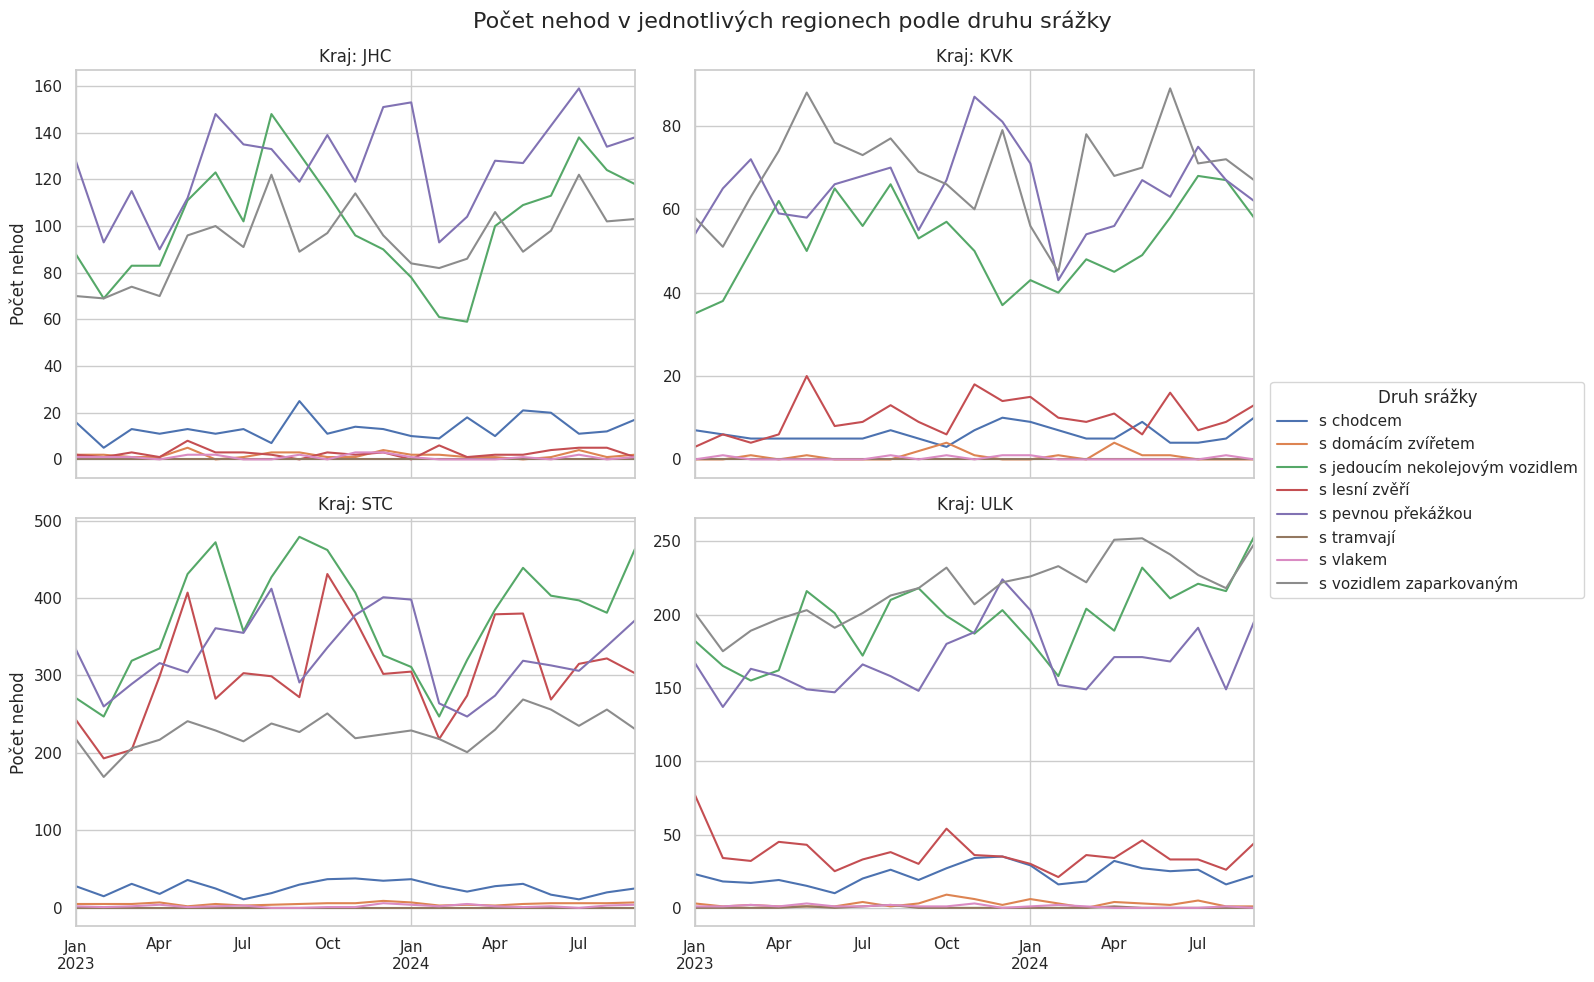
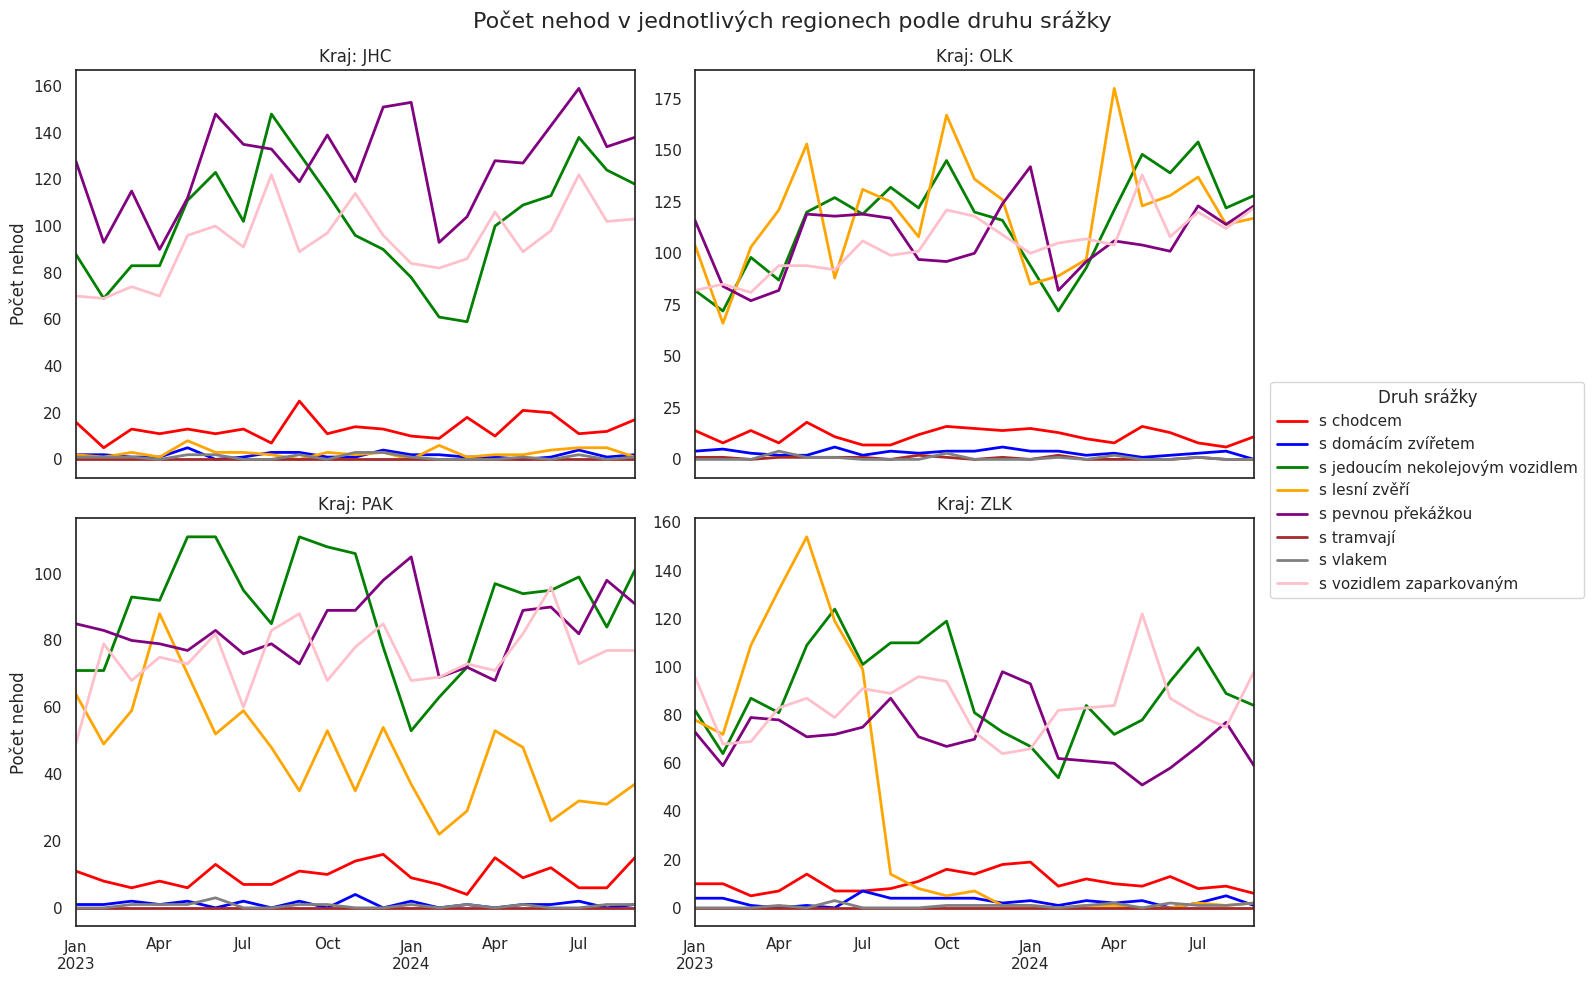
IZV part2 final

diff --git a/5.semestr/IZV/izv-part02/analysis.py b/5.semestr/IZV/izv-part02/analysis.py
@@ -1,5 +1,6 @@
 #!/usr/bin/env python3.12
 # coding=utf-8
+
 from matplotlib import pyplot as plt
 import pandas as pd
 import seaborn as sns
@@ -14,6 +15,8 @@ def load_data(filename: str, ds: str) -> pd.DataFrame:
     with zipfile.ZipFile(filename, 'r') as z:
         files = z.namelist()
         data_frames = []
+        
+        # Čtení všech odpovídajícíh souborů s koncovkou .xls s dekódováním cp1250
         for file in files:
             if ds in file and file.endswith('.xls'): 
                 with z.open(file) as f: 
@@ -21,6 +24,7 @@ def load_data(filename: str, ds: str) -> pd.DataFrame:
                     # Smazání nepojmenovaných sloupců 
                     df = df.loc[:, ~df.columns.str.contains('^Unnamed')] 
                     data_frames.append(df) 
+                    
         # Spojení datových rámců dohromady 
         combined_df = pd.concat(data_frames, ignore_index=True) 
         return combined_df 
@@ -31,13 +35,16 @@ def parse_data(df: pd.DataFrame, verbose: bool = False) -> pd.DataFrame:
     new_df = df.copy()
     # Převod sloupce p2a na formát data "DD.MM.YYYY"
     new_df['date'] = pd.to_datetime(new_df['p2a'], format='%d.%m.%Y')
+
     # Vytvoření mapy a namapování krajů
     region_map = {0: "PHA", 1: "STC", 2: "JHC", 3: "PLK", 4: "ULK", 5: "HKK", 6: "JHM", 7: "MSK",
                   14: "OLK", 15: "ZLK", 16: "VYS", 17: "PAK", 18: "LBK", 19: "KVK"}
-    new_df['region'] = new_df['p4a'].map(region_map)  # Adjust based on the correct column
+    new_df['region'] = new_df['p4a'].map(region_map)
+
     # Odstranění duplicitních záznamů
     new_df = new_df.drop_duplicates(subset='p1')
-    # Výpočet a výpis velikosti datového rámce po úpravách
+
+    # Výpočet a výpis velikosti df
     if verbose:
         total_size = new_df.memory_usage(deep=True).sum() / (10**6)
         print(f"new_size={total_size:.1f} MB")
@@ -48,17 +55,20 @@ def plot_state(df: pd.DataFrame, fig_location: str = None, show_figure: bool = F
     # Vytvoření mapy a namapování stavu vozovky
     condition_map = {1: "Suchý povrch", 2: "Suchý povrch", 3: "Mokro", 4: "Bláto", 5: "Náledí, ujetý sníh", 6: "Náledí, ujetý sníh"}
     df['road_condition'] = df['p16'].map(condition_map)
+
     # Vyfiltrování prázdných záznamů
     filtered_df = df[df['road_condition'].notna()]
-    # Seskupíme podle krajů
+
+    # Seskupení podle krajů a podle stavu vozovky
     grouped_df = filtered_df.groupby(['region', 'road_condition'])
     counts_series = grouped_df.size()
     accident_counts = counts_series.reset_index(name='counts')
-    
+
+    # Vytvoření grafu
     sns.set_theme(style="whitegrid")
     fig, axs = plt.subplots(2, 2, figsize=(15, 10), constrained_layout=True)
     conditions = accident_counts['road_condition'].unique()
-    
+
     for i, (ax, condition) in enumerate(zip(axs.flatten(), conditions)):
         sns.barplot(data=accident_counts[accident_counts['road_condition'] == condition], x='region', y='counts', ax=ax)
         ax.set_title(condition)
@@ -74,46 +84,40 @@ def plot_state(df: pd.DataFrame, fig_location: str = None, show_figure: bool = F
             ax.set_xlabel('Kraj')
         else:
             ax.set_xlabel('')
-            
 
         for container in ax.containers: 
             ax.bar_label(container)
-    
+            
     plt.suptitle('Počet nehod v jednotlivých regionech podle stavu vozovky', fontsize=16)
-    
-    # Save figure if location provided
     if fig_location:
         plt.savefig(fig_location)
-    
-    # Show figure if requested
     if show_figure:
         plt.show()
-    else:
-        plt.close()
+    plt.close()
 
 
 # Ukol4: alkohol a následky v krajích
 def plot_alcohol(df: pd.DataFrame, df_consequences: pd.DataFrame, fig_location: str = None, show_figure: bool = False):
-    # Merge the dataframes on index p1
+    # Spojení dvou df na základě indexu p1
     merged_df = pd.merge(df, df_consequences, on='p1', suffixes=('_accident', '_consequence'))
     
-    # Filter for accidents involving alcohol (p11 >= 3)
+    # Filtrování nehod zahrnujících alkohol (p11 >= 3)
     alcohol_df = merged_df[merged_df['p11'] >= 3]
     
-    # Filter out rows where the time is unknown
+    # Odstranění záznamů bez času
     alcohol_df = alcohol_df[alcohol_df['p2a'].notna()]
     
-    # Determine if the person injured is a driver or passenger
+    # Určení zraněných osob
     alcohol_df['person'] = alcohol_df['p59a'].apply(lambda x: 'řidič' if x == 1 else 'spolujezdec')
     
-    # Determine the level of injury
+    # Vytvoření mapy a namapování úrovně zranění
     injury_levels = {1: 'Usmrcení', 2: 'Těžké zranění', 3: 'Lehké zranění', 4: 'Bez zranění'}
     alcohol_df['injury_level'] = alcohol_df['p59g'].map(injury_levels).fillna('Bez zranění')
     
-    # Count the number of injuries by region, person, and injury level
+    # Počet zranění podle kraje, osoby a úrovně zranění
     injury_counts = alcohol_df.groupby(['region', 'person', 'injury_level']).size().reset_index(name='counts')
     
-    # Set up the plot
+    # Vytvoření grafu
     sns.set_theme(style="whitegrid")
     fig, axs = plt.subplots(2, 2, figsize=(15, 10))
     injury_levels_sorted = ['Bez zranění', 'Lehké zranění', 'Těžké zranění', 'Usmrcení']
@@ -130,55 +134,50 @@ def plot_alcohol(df: pd.DataFrame, df_consequences: pd.DataFrame, fig_location: 
             ax.set_xlabel('')
 
         if i % 2 == 0:
-            ax.set_ylabel('Počet následků')
+            ax.set_ylabel('Počet nehod')
         else:
             ax.set_ylabel('')
         
-        # Set font size of x-axis labels
         ax.tick_params(axis='x', labelsize=8)
         
         for container in ax.containers: 
             ax.bar_label(container, fontsize=6)
 
-    # Move the legend outside of the plots
     handles, labels = axs[0, 0].get_legend_handles_labels()
     fig.legend(handles, labels, loc='center right', bbox_to_anchor=(0.8, 0.475), ncol=1)
     
-    # Remove individual legends
+    # Odstranění legend
     for ax in axs.flatten():
         ax.legend().set_visible(False)
     
     plt.suptitle('Počet nehod pod vlivem alkoholu v jednotlivých regionech podle úrovně zranění', fontsize=16, x=0.4)
-    fig.tight_layout(rect=[0, 0, 0.7, 1])  # Adjust layout to make space for the legend
+    fig.tight_layout(rect=[0, 0, 0.7, 1])
     
-    # Save figure if location provided
     if fig_location:
-        plt.savefig(fig_location, bbox_inches='tight')
-    
-    # Show figure if requested
+        plt.savefig(fig_location, bbox_inches='tight')    
     if show_figure:
         plt.show()
-    plt.close(fig)  # Ensure the figure is closed to end the program properly
+    plt.close(fig)
 
 # Ukol 5: Druh nehody (srážky) v čase
 def plot_type(df: pd.DataFrame, fig_location: str = None, show_figure: bool = False):
-    # Get a list of unique regions 
+    # Získání seznamu unikátních regionů
     unique_regions = df['region'].unique() 
-    
-    # Select four regions randomly
+
+    # Náhodný výběr čtyř regionů
     selected_regions = np.random.choice(unique_regions, 4, replace=False)
-    # Filter for collisions only
+
+    # Vytvoření mapy a namapování druhů srážek
     collision_types = {
         1: 's jedoucím nekolejovým vozidlem', 2: 's vozidlem zaparkovaným', 3: 's pevnou překážkou', 4: 's chodcem',
         5: 's lesní zvěří', 6: 's domácím zvířetem', 7: 's vlakem', 8: 's tramvají'
     }
-    
     df['collision_type'] = df['p6'].map(collision_types)
-    
-    # Filter for selected regions
+
+    # Filtrování pro vybrané regiony    
     df_filtered = df[df['region'].isin(selected_regions)]
-    
-    # Pivot table to get the number of collisions per day per region and collision type
+
+    # Kontingenční tabulka pro získání počtu srážek za den pro každý region a druh srážky    
     pivot_df = df_filtered.pivot_table(
         index=['date', 'region'], 
         columns='collision_type', 
@@ -187,12 +186,13 @@ def plot_type(df: pd.DataFrame, fig_location: str = None, show_figure: bool = Fa
         fill_value=0
     ).reset_index()
     
-    # Resample by month for each region and collision type
+    # Seskupení podle měsíce pro každý region a druh srážky    
     pivot_df['date'] = pd.to_datetime(pivot_df['date'])
     monthly_data = pivot_df.groupby(['region', pd.Grouper(key='date', freq='MS')]).sum().reset_index()
     
-    # Plot
-    sns.set_theme(style="whitegrid")
+    # Vytvoření grafu
+    colors = ['red', 'blue', 'green', 'orange', 'purple', 'brown', 'gray', 'pink']
+    sns.set_theme(style="white")
     fig, axs = plt.subplots(2, 2, figsize=(20, 10), sharex=True)
     regions_sorted = sorted(selected_regions)
     
@@ -201,29 +201,24 @@ def plot_type(df: pd.DataFrame, fig_location: str = None, show_figure: bool = Fa
         region_data = region_data.set_index('date')
         region_data = region_data.loc['2023-01-01':'2024-9-29']
         
-        region_data.plot(ax=ax, title=f'Kraj: {region}')
+        region_data.plot(ax=ax, title=f'Kraj: {region}', color=colors, linewidth=2)
         ax.set_xlabel('')
         if i % 2 == 0:
             ax.set_ylabel('Počet nehod')
         else:
             ax.set_ylabel('')
         
-    # Remove the legend from individual plots
+    # Odstranění legend a přidání jedné společné
     for ax in axs.flatten():
         ax.get_legend().remove()
-    
-    # Add a single legend
     handles, labels = axs[0, 0].get_legend_handles_labels()
     fig.legend(handles, labels, loc='center right', bbox_to_anchor=(0.8, 0.5), title='Druh srážky', ncol=1)
     
     plt.suptitle('Počet nehod v jednotlivých regionech podle druhu srážky', fontsize=16, x=0.4)
     fig.tight_layout(rect=[0, 0, 0.64, 1])
     
-    # Save the figure if fig_location is provided
     if fig_location:
         plt.savefig(fig_location, bbox_inches='tight')
-    
-    # Show the figure if show_figure is True
     if show_figure:
         plt.show()
     plt.close(fig)
@@ -233,18 +228,12 @@ if __name__ == "__main__":
     # skript nebude pri testovani pousten primo, ale budou volany konkreni
     # funkce.
     
-    # df = load_data("data_23_24.zip", "nehody")
-    # df_consequences = load_data("data_23_24.zip", "nasledky")
-    # df2 = parse_data(df, True)
-
-    # df2.to_pickle('parsed_data.pkl')
-    # df_consequences.to_pickle('consequences_data.plk')
-    
-    df2 = pd.read_pickle('parsed_data.pkl')
-    df_consequences = pd.read_pickle('consequences_data.plk')
+    df = load_data("data_23_24.zip", "nehody")
+    df_consequences = load_data("data_23_24.zip", "nasledky")
+    df2 = parse_data(df, True)
 
     plot_state(df2, "01_state.png")
-    plot_alcohol(df2, df_consequences, "02_alcohol.png", False)
+    plot_alcohol(df2, df_consequences, "02_alcohol.png", True)
     plot_type(df2, "03_type.png")
 
 
